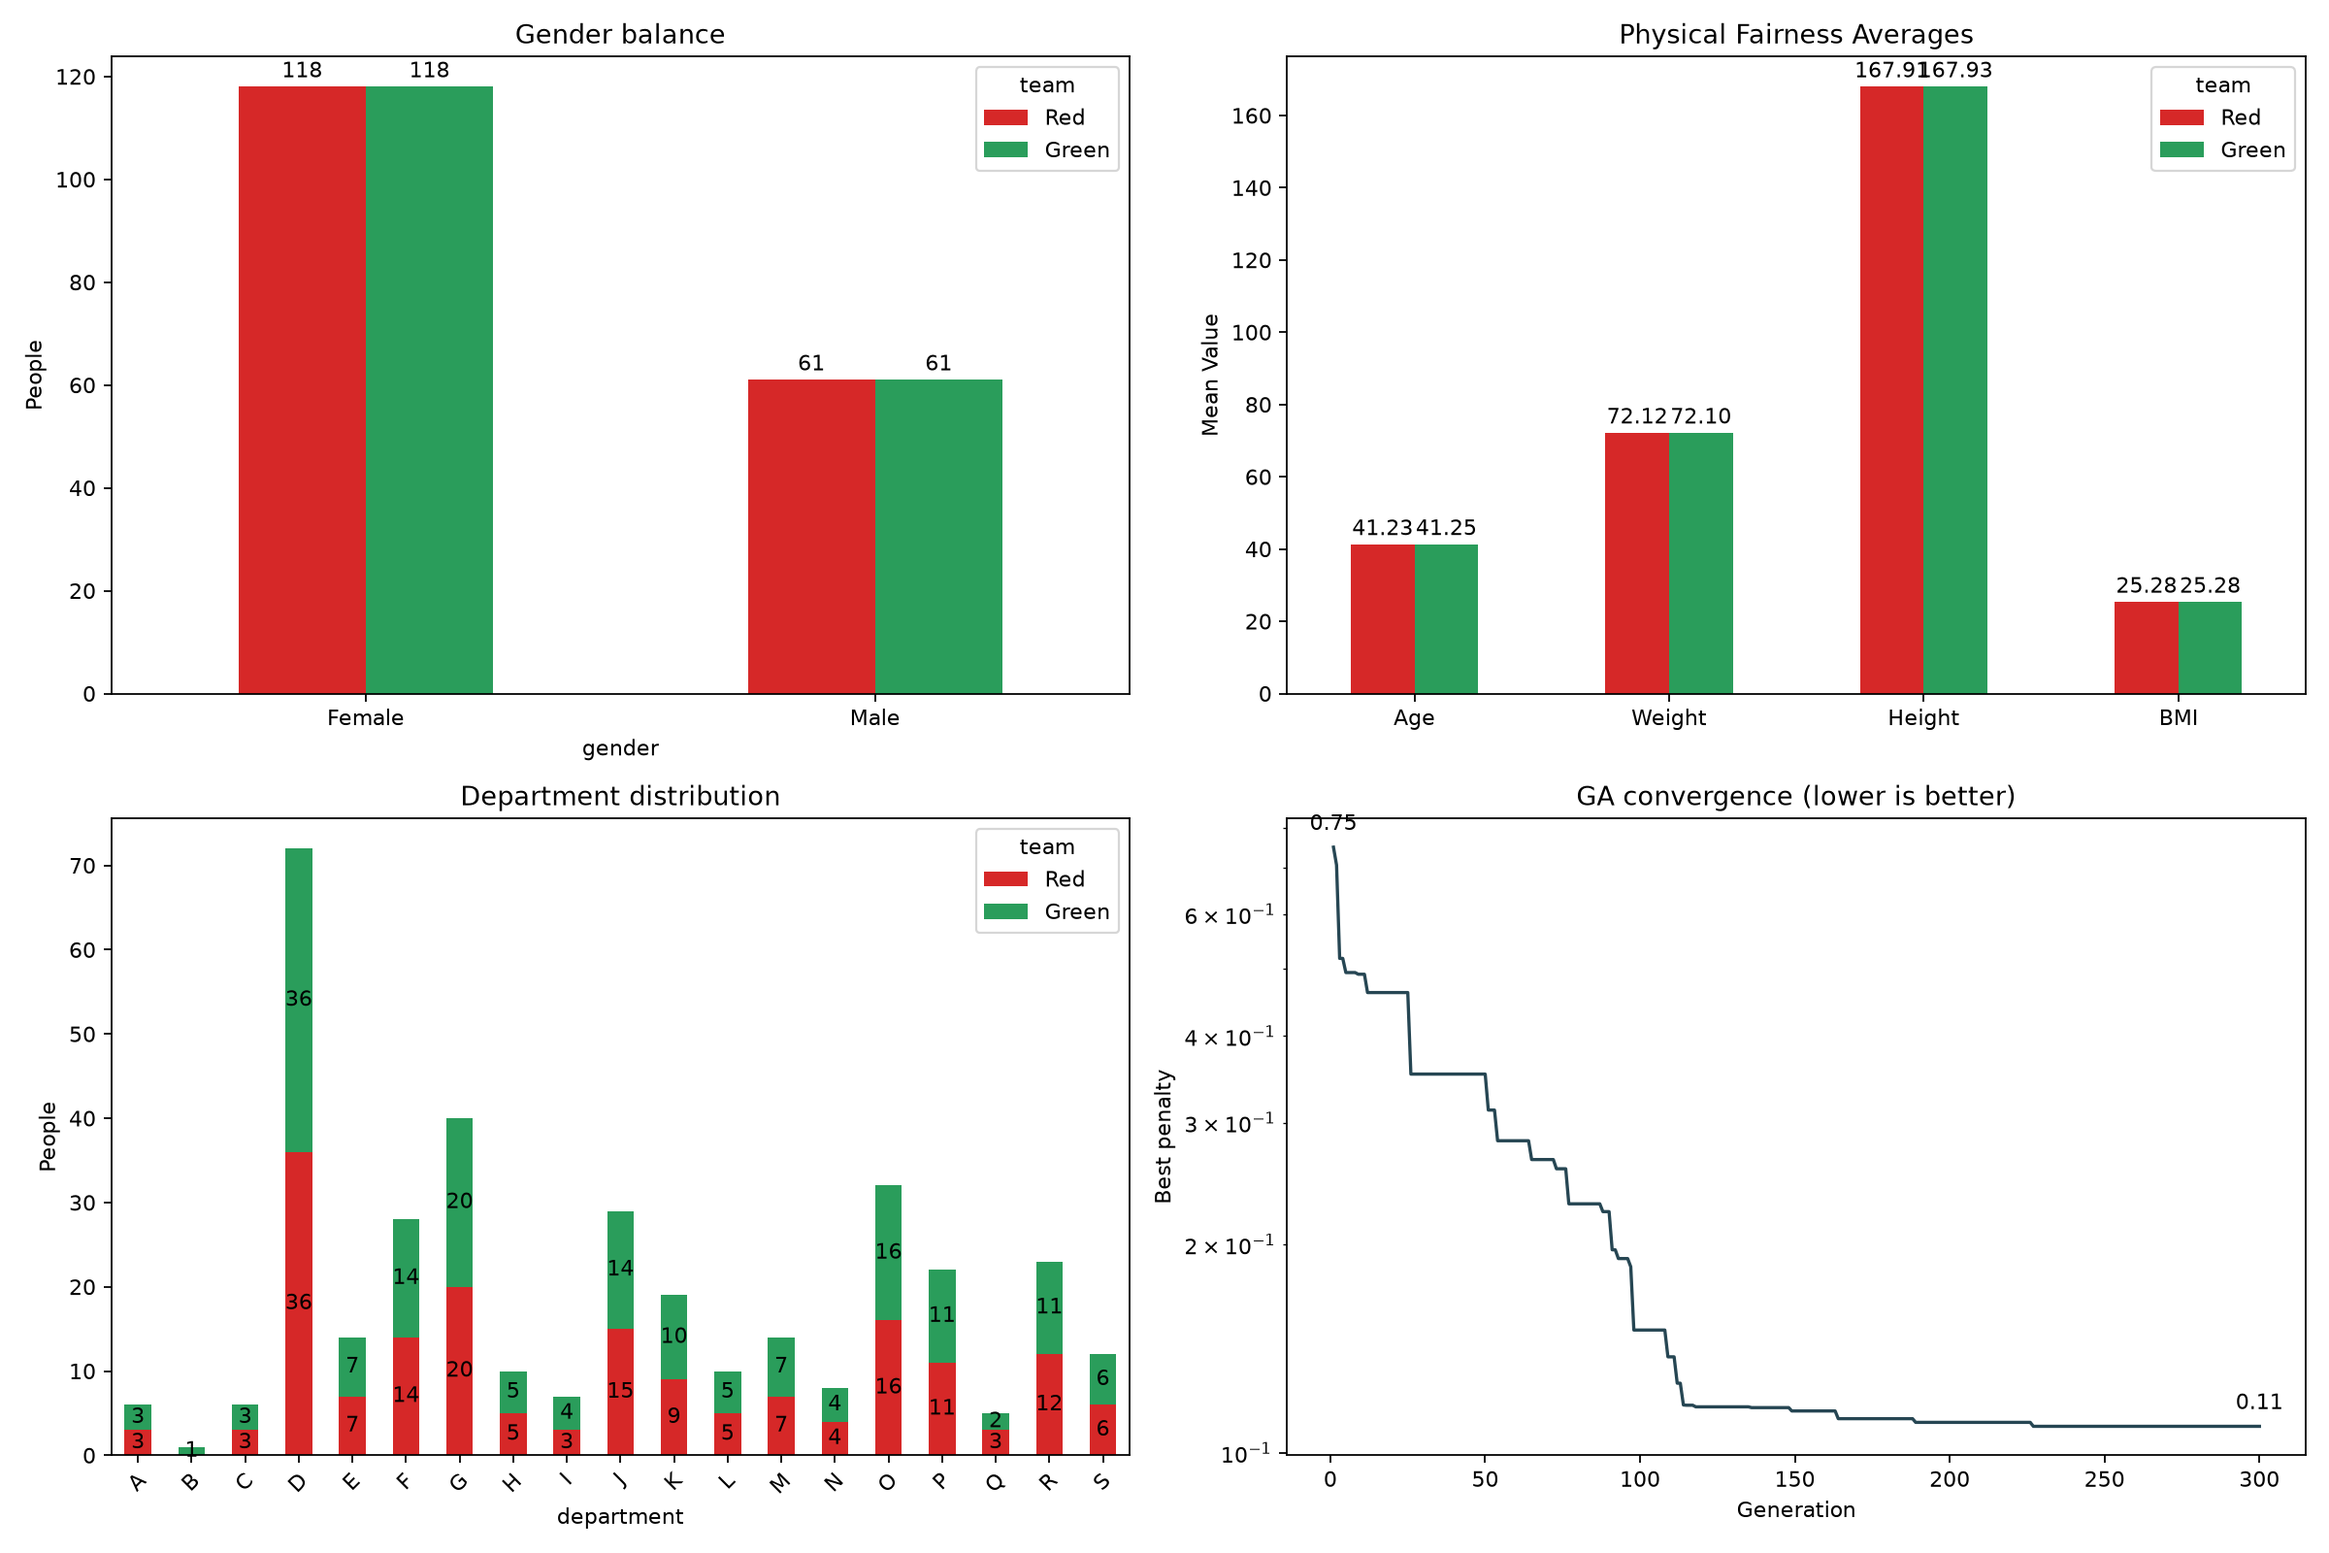
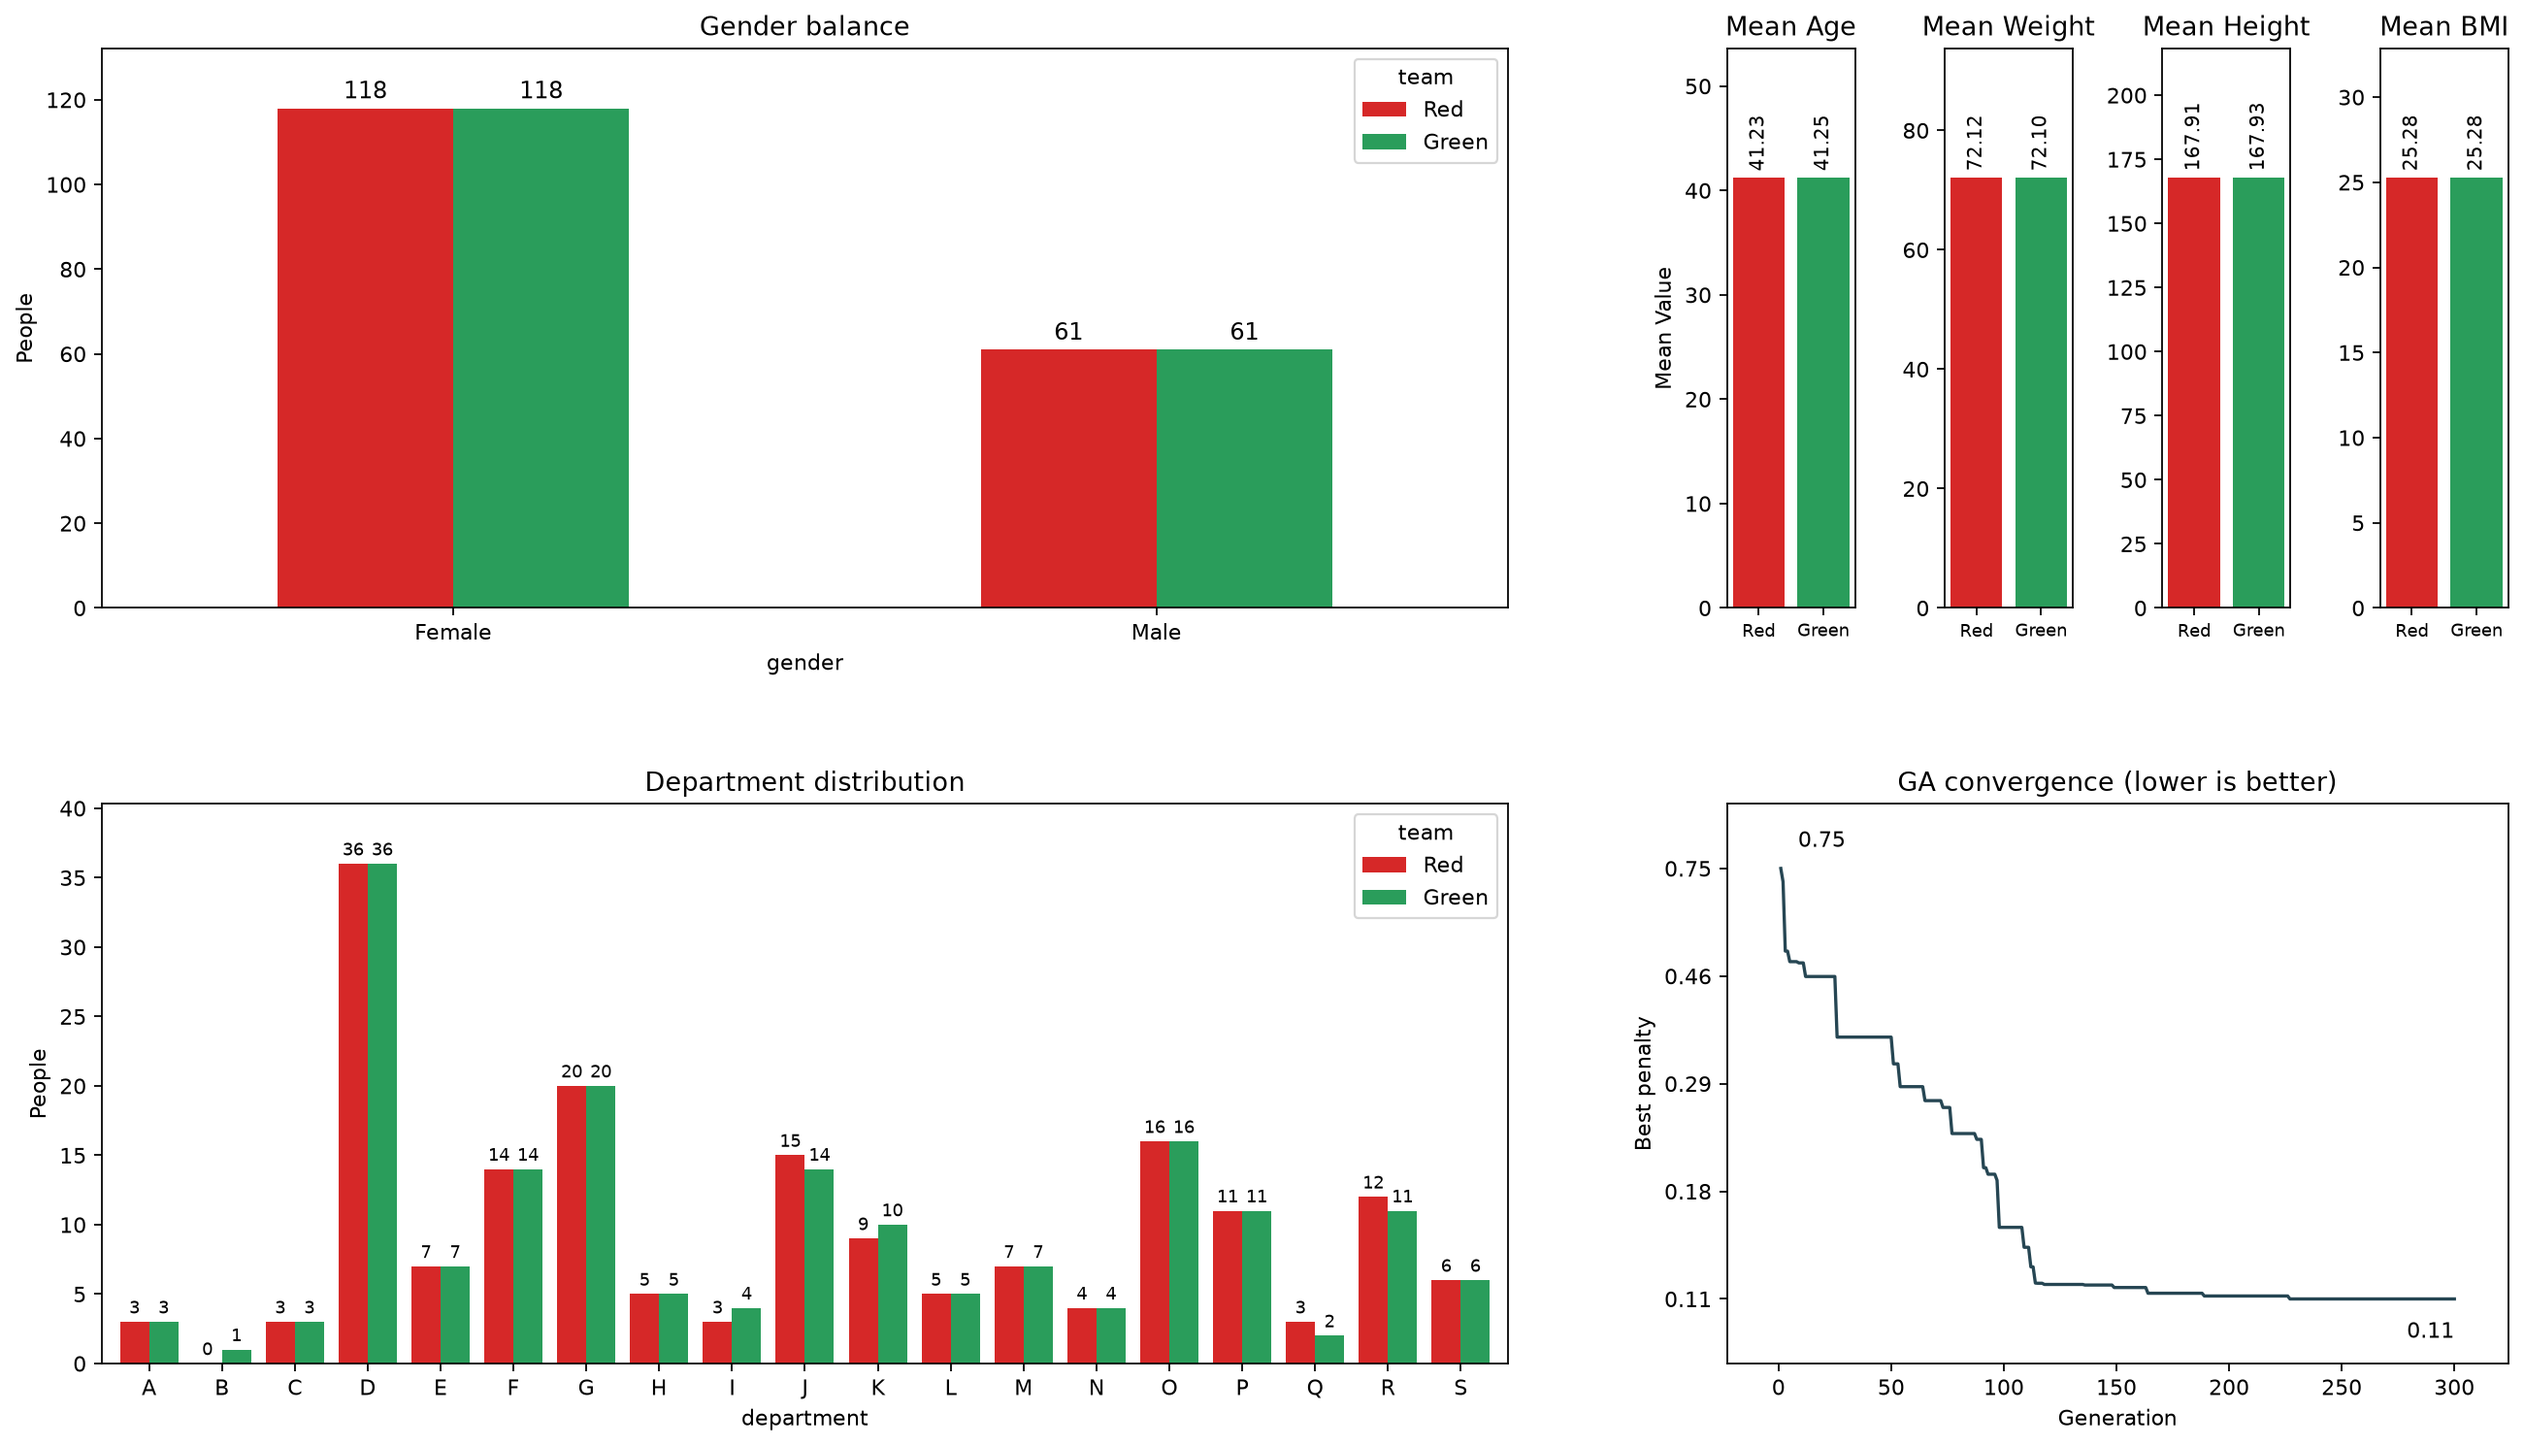
แก้ไข Code แสดงผลบนกราฟ

diff --git a/main.py b/main.py
@@ -4,6 +4,7 @@ import random
 import matplotlib
 matplotlib.use("Agg")
 import matplotlib.pyplot as plt
+from matplotlib.ticker import FuncFormatter
 import numpy as np
 import pandas as pd
 import yaml
@@ -106,25 +107,39 @@ def save_outputs(d, best, history, out):
     summary.to_csv(out / "fairness_summary.csv")
 
     order = ["Red", "Green"]
-    fig, ax = plt.subplots(2, 2, figsize=(15, 10))
-    pd.crosstab(d["gender"], d["team"])[order].plot.bar(ax=ax[0, 0], color=COLORS, rot=0, title="Gender balance", ylabel="People")
-    m = g[["age", "weight", "height", "bmi"]].mean().T[order]
-    m.index = ["Age", "Weight", "Height", "BMI"]
-    m.plot.bar(ax=ax[0, 1], color=COLORS, rot=0, title="Physical Fairness Averages", ylabel="Mean Value")
-    pd.crosstab(d["department"], d["team"])[order].plot.bar(ax=ax[1, 0], stacked=True, color=COLORS, rot=45, title="Department distribution", ylabel="People")
-    ax[1, 1].plot(range(1, len(history) + 1), history, color="#264653")
-    ax[1, 1].set(title="GA convergence (lower is better)", xlabel="Generation", ylabel="Best penalty", yscale="log")
+    fig = plt.figure(figsize=(20, 11))
+    gs = fig.add_gridspec(2, 2, width_ratios=[1.8, 1], hspace=0.35, wspace=0.2)
+    ax_gender, ax_dept, ax_conv = fig.add_subplot(gs[0, 0]), fig.add_subplot(gs[1, 0]), fig.add_subplot(gs[1, 1])
 
-    for c in ax[0, 0].containers:
-        ax[0, 0].bar_label(c, fmt="%d", padding=2)
-    for c in ax[0, 1].containers:
-        ax[0, 1].bar_label(c, fmt="%.2f", padding=2)
-    for c in ax[1, 0].containers:  # stacked: ซ่อนเลข 0
-        ax[1, 0].bar_label(c, labels=[f"{v:.0f}" if v else "" for v in c.datavalues], label_type="center")
-    for x, y in ((1, history[0]), (len(history), history[-1])):  # ค่าเริ่มต้นและค่าสุดท้ายของเส้น
-        ax[1, 1].annotate(f"{y:.2f}", (x, y), textcoords="offset points", xytext=(0, 8), ha="center")
-    fig.tight_layout()
-    fig.savefig(out / "fairness_charts.png", dpi=160)
+    pd.crosstab(d["gender"], d["team"])[order].plot.bar(ax=ax_gender, color=COLORS, rot=0, title="Gender balance", ylabel="People")
+    pd.crosstab(d["department"], d["team"])[order].plot.bar(ax=ax_dept, color=COLORS, rot=0, width=0.8, title="Department distribution", ylabel="People")
+    for a, size in ((ax_gender, 11), (ax_dept, 8)):
+        a.margins(y=0.12)  # เว้นที่ให้ตัวเลขเหนือแท่ง
+        for c in a.containers:
+            a.bar_label(c, fmt="%d", padding=2, fontsize=size)
+
+    # ค่าเฉลี่ยร่างกาย: 1 ช่องย่อยต่อตัวแปร (สเกลต่างกันมาก วางรวมกันแล้วเลขทับ)
+    m = g[["age", "weight", "height", "bmi"]].mean().T[order]
+    mini = gs[0, 1].subgridspec(1, 4, wspace=0.7)
+    for i, (name, row) in enumerate(zip(["Age", "Weight", "Height", "BMI"], m.to_numpy())):
+        a = fig.add_subplot(mini[i])
+        a.bar(order, row, color=COLORS)
+        a.bar_label(a.containers[0], fmt="%.2f", padding=3, fontsize=9, rotation=90)  # แนวตั้ง กันเลขชนกัน
+        a.set(title=f"Mean {name}", ylim=(0, row.max() * 1.3))
+        a.tick_params(axis="x", labelsize=8)
+        if i == 0:
+            a.set_ylabel("Mean Value")
+
+    ax_conv.plot(range(1, len(history) + 1), history, color="#264653")
+    ax_conv.set(title="GA convergence (lower is better)", xlabel="Generation", ylabel="Best penalty", yscale="log")
+    ax_conv.minorticks_off()
+    ax_conv.set_yticks(np.geomspace(min(history), max(history), 5))  # 5 ขีดพอ แทนเลขเบียดกัน
+    ax_conv.yaxis.set_major_formatter(FuncFormatter(lambda v, _: f"{v:.2f}"))
+    ax_conv.margins(x=0.08, y=0.15)
+    for (x, y), dx, dy, ha in (((1, history[0]), 8, 10, "left"), ((len(history), history[-1]), 0, -18, "right")):
+        ax_conv.annotate(f"{y:.2f}", (x, y), textcoords="offset points", xytext=(dx, dy), ha=ha, fontsize=10)
+
+    fig.savefig(out / "fairness_charts.png", dpi=160, bbox_inches="tight")
     plt.close(fig)
 
 
